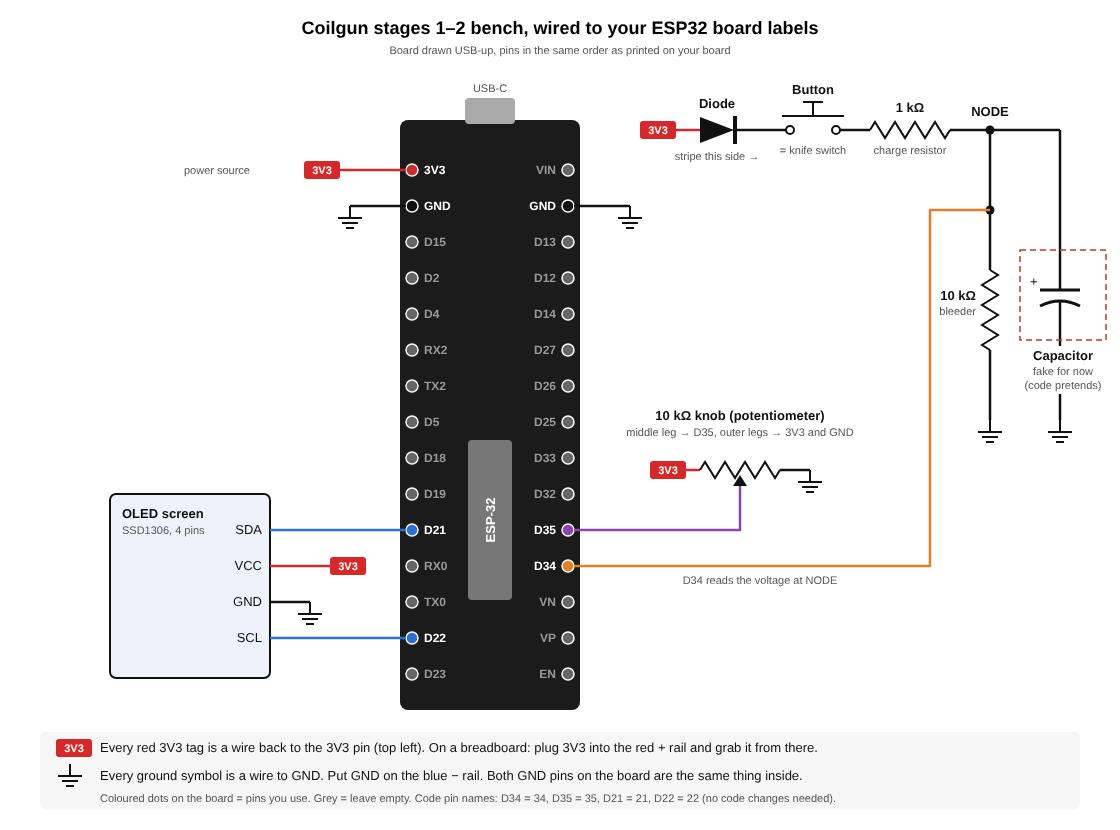
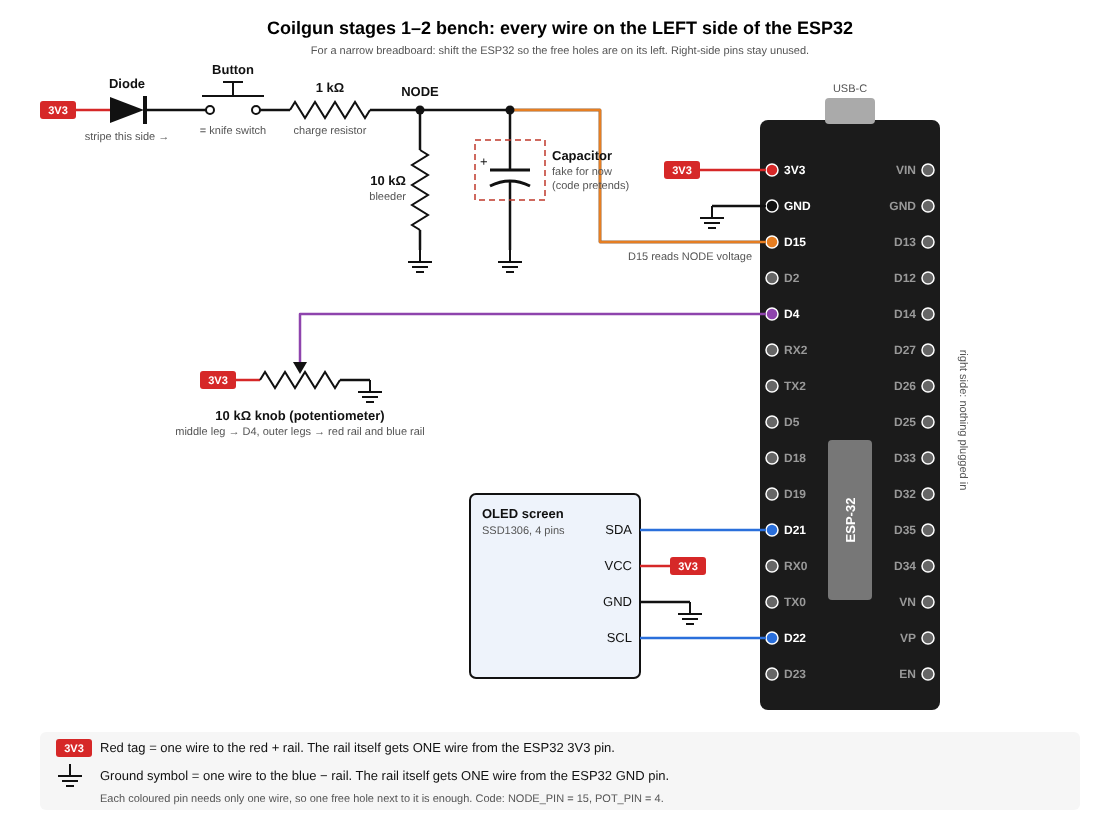
Move all wiring to left-side pins (D15 sense, D4 pot) for narrow breadboards
Claude-Session: https://claude.ai/code/session_018JwVfyL7oJQvnUZAr4jAxG

diff --git a/simulation/cap_charge_esp32/README.md b/simulation/cap_charge_esp32/README.md
@@ -6,14 +6,14 @@ Breadboard stand-in for the front end of the coilgun, read out on an ESP32 + SSD
 
 ```
                 D1 1N400x / 1N4148      SW1             R_CHG 1k
-ESP32 3V3 ────────►|──────────────────o  o──────────/\/\/\────┬───────────┬──────► GPIO34 (ADC)
+ESP32 3V3 ────────►|──────────────────o  o──────────/\/\/\────┬───────────┬──────► D15 (ADC)
                (band toward SW1)   push-button                │           │
                                   ("knife switch")         R_BLEED     C_BANK
                                                              10k     (virtual in firmware,
                                                               │       or real cap, + to node)
 ESP32 GND ────────────────────────────────────────────────────┴───────────┴──────── GND rail
 
-10k pot:   one end -> 3V3, other end -> GND, wiper -> GPIO35   (sets virtual C, 100 uF to 10 mF)
+10k pot:   one end -> 3V3, other end -> GND, wiper -> D4   (sets virtual C, 100 uF to 10 mF)
 OLED:      VCC -> 3V3, GND -> GND, SDA -> GPIO21, SCL -> GPIO22
 ```
 
